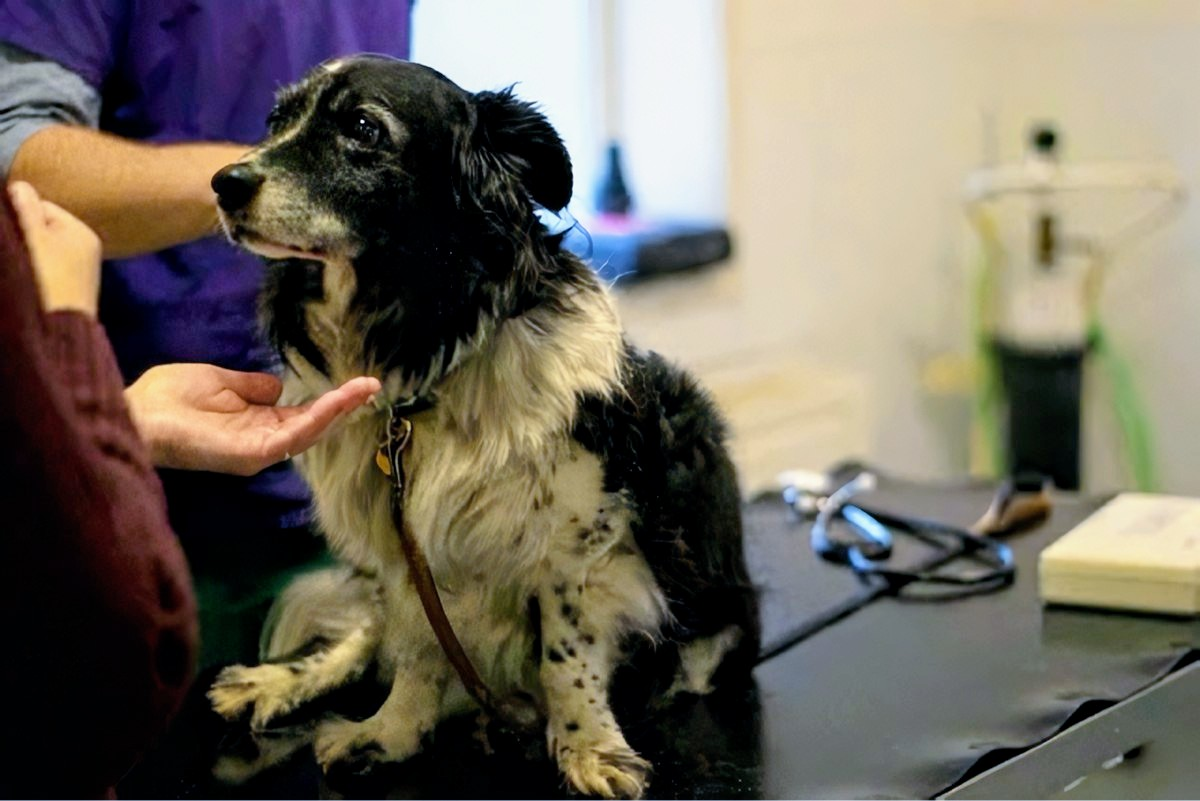
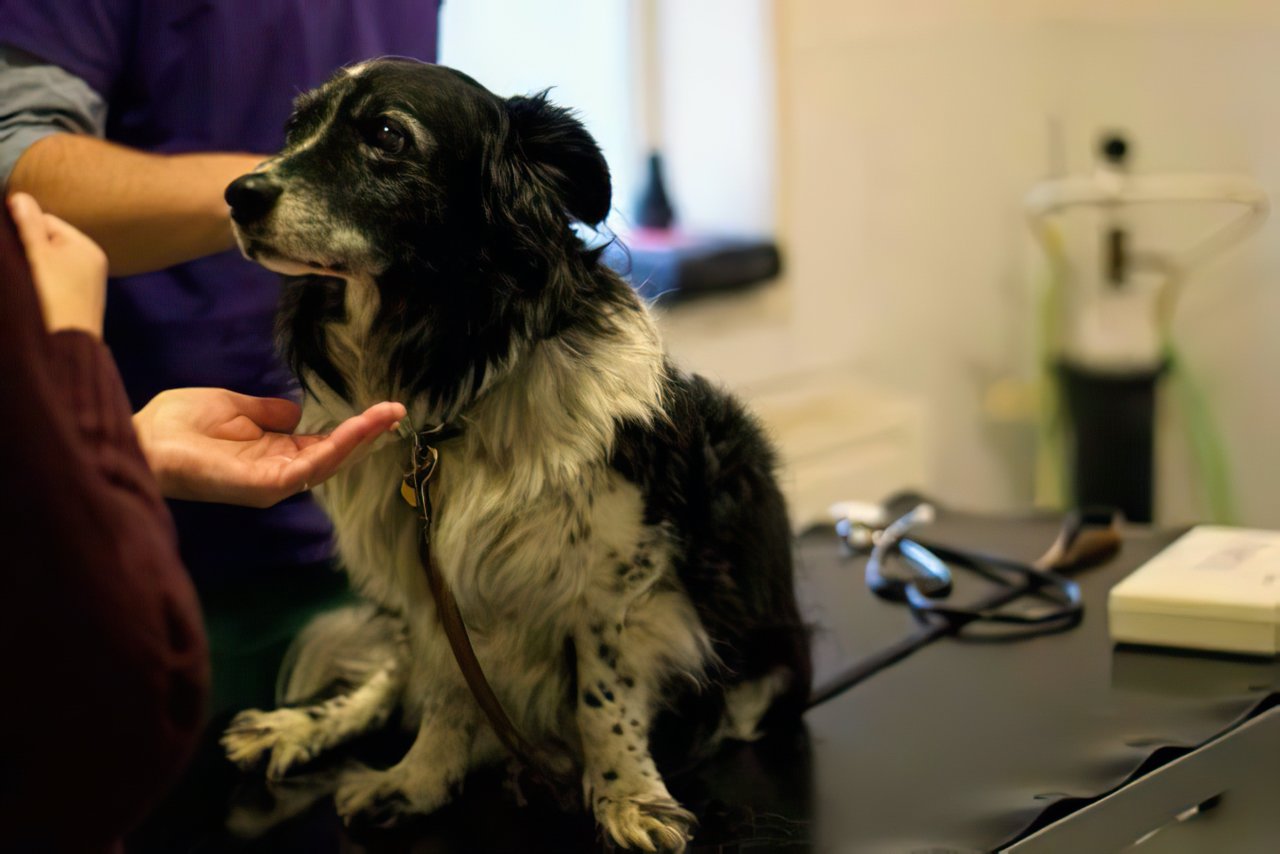
Added upscaled versions of the dog-in-clinic photo

diff --git a/css/hero-section.css b/css/hero-section.css
@@ -52,7 +52,7 @@
 /* Medium and large screens */
 @media screen and (min-width: 40em) {
   .clinic.hero-section {
-    background: url("../img/dog-in-clinic-lg.jpeg") no-repeat;
+    background: url("../img/dog-in-clinic-lg.jpg") no-repeat;
     background-size: cover;
   }
 
